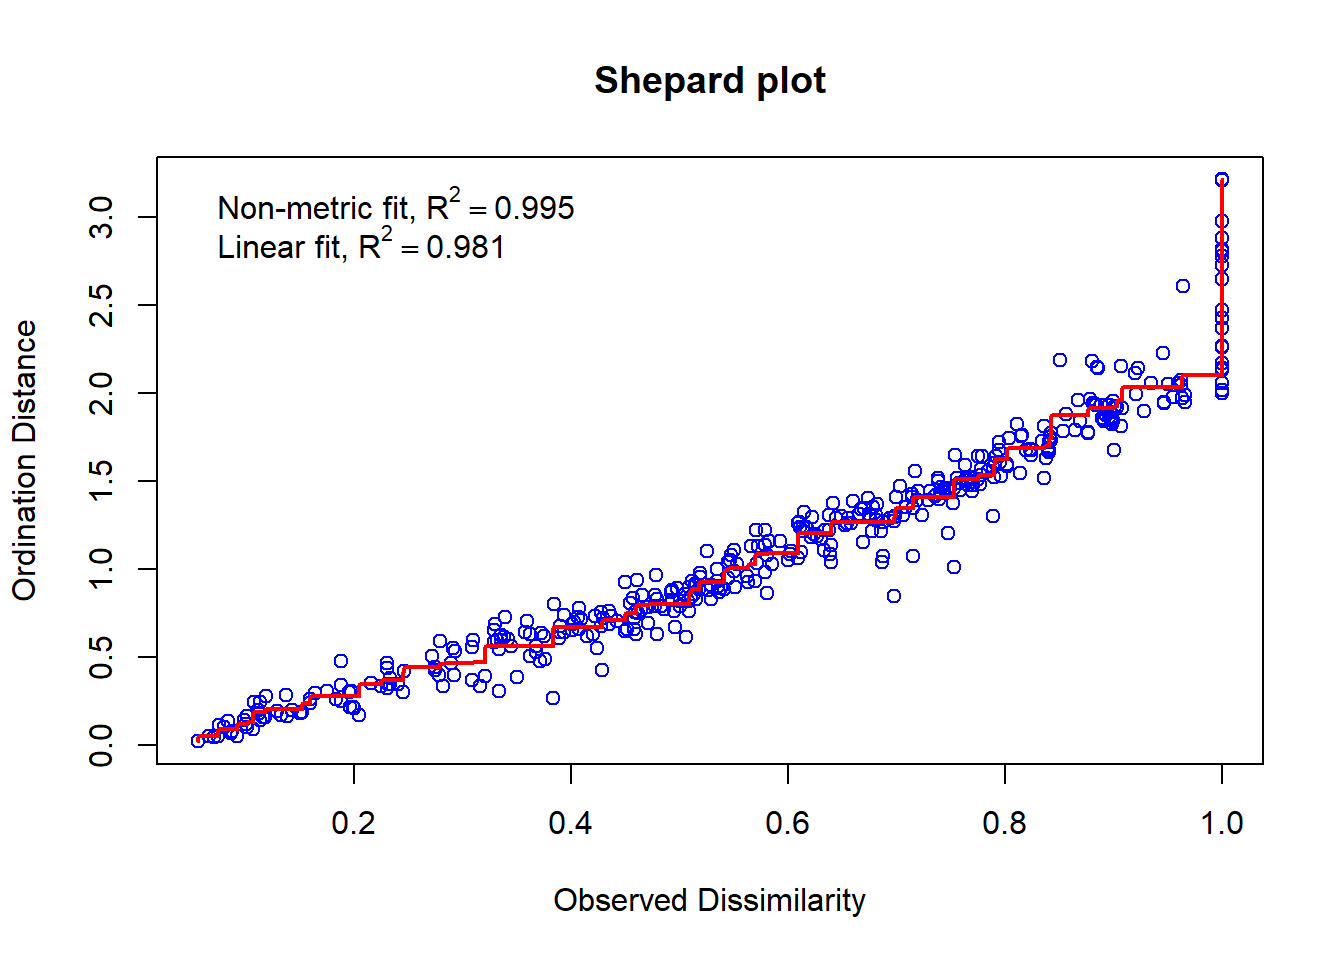
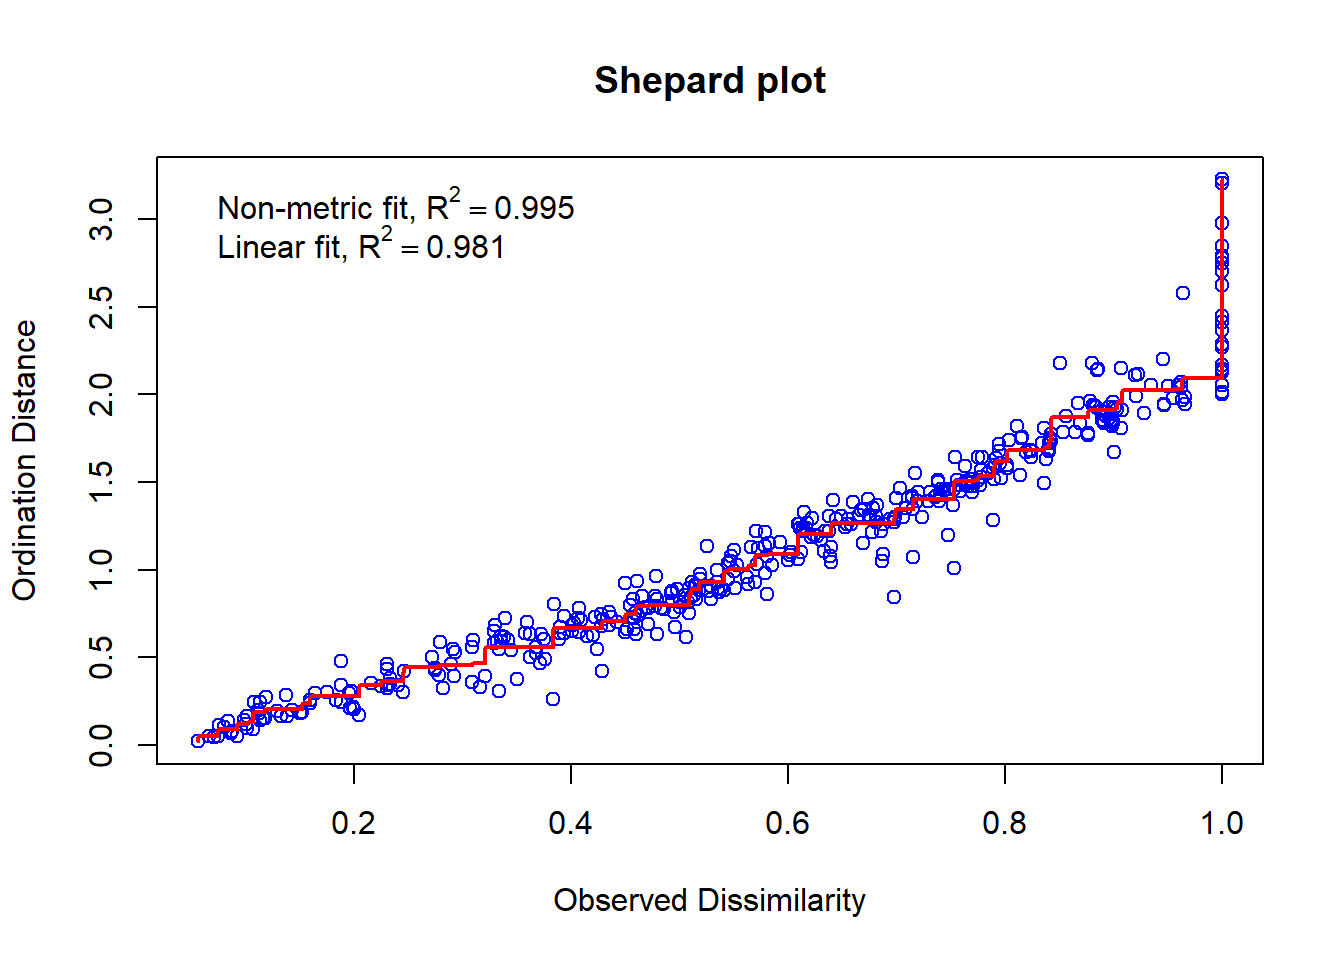
minor

diff --git a/Ordination2023.html b/Ordination2023.html
@@ -503,7 +503,7 @@ predictor variables. For example, say we want to know how a fish species
 of interest (<em>Cottus gobio</em>) is impacted by a handful of
 environmental variables (pH, average stream flow, and dissolved oxygen
 concentration).</p>
-<p><img src="images/Lecture_1.png" Width="75%" /></p>
+<p><img src="Lecture_1.png" Width="75%" /></p>
 <p>We can do this easily with a gamma-distributed GLM.</p>
 <pre class="r"><code># Load libraries ----
 library(codep)
@@ -544,7 +544,7 @@ summary(COGO_mod) #oxygen is significantly positive!</code></pre>
 concentrations are higher. Cool!</p>
 <p>But, what if we were interested in not just one fish, but an entire
 community of fishies?</p>
-<p><img src="images/Lecture_2.png" Width="75%" /></p>
+<p><img src="Lecture_2.png" Width="75%" /></p>
 <p>This is where multivariate analysis shines! Multivariate analysis is
 any analysis that allows us to address the simultaneous observation or
 analysis of more than one response variable. In multivariate analysis,
@@ -581,8 +581,8 @@ to understand how they structure complicated community data.</p>
 be graphed into intuitive interpretations of species-environment
 relationships.</p>
 <p>We can make informative and great looking figures like this:</p>
-<p><img src="images/Lecture_3.png" style="width:50.0%" /><img
-src="images/Lecture_4.png" style="width:50.0%" /></p>
+<p><img src="Lecture_3.png" style="width:50.0%" /><img
+src="Lecture_4.png" style="width:50.0%" /></p>
 <p>In other cases, ordination is used as a step in a series of analyses.
 You can often use ordination to reduce the number of variables to avoid
 multicollinearity, or reduce the dimensionality of a data set to a
@@ -599,11 +599,11 @@ need to have a basic understanding of matrices and matrix algebra</p>
 is the sampling unit (e.g., site, plot), and <em>y</em> is the
 ecological descriptor (e.g., species presence-absence, topographical
 variables, chemical variables).</p>
-<p><img src="images/Lecture_5.png" /></p>
+<p><img src="Lecture_5.png" /></p>
 <p>The same ecological data table can be represented in matrix notation
 like this:</p>
 <div class="float">
-<img src="images/Lecture_6.png"
+<img src="Lecture_6.png"
 alt="In this example, y1,1 represents species 1 in site 1. ym,n represents species n in site m." />
 <div class="figcaption">In this example, <em>y<sub>1,1</sub></em>
 represents species 1 in site 1. <em>y<sub>m,n</sub></em> represents
@@ -612,23 +612,23 @@ species <em>n</em> in site <em>m</em>.</div>
 <div id="association-matrices" class="section level3">
 <h3>Association Matrices</h3>
 <p>Using the data from our matrix <em>Y</em>:</p>
-<p><img src="images/Lecture_7.png" /></p>
+<p><img src="Lecture_7.png" /></p>
 <p>One can examine the relationship between the first two objects,
 <em>x<sub>1</sub></em> and <em>x<sub>2</sub></em>:</p>
-<p><img src="images/Lecture_8.png" /></p>
+<p><img src="Lecture_8.png" /></p>
 <p>We refer to the relationship between <em>x<sub>1</sub></em> and
 <em>x<sub>2</sub></em> as <em>a<sub>1,2</sub></em>.</p>
 <p>We can populate the association matrix <em>A<sub>n,n</sub></em>, with
 the relationships between all objects from <em>Y</em>.</p>
-<p><img src="images/Lecture_9.png" /></p>
+<p><img src="Lecture_9.png" /></p>
 <p>This is the basis of most ordination methods (Q-mode, where the
 associations between objects, or sites/plots, are analyzed).</p>
 <p>We can also analyze the associations between ecological descriptors
 (columns, R-mode).</p>
-<p><img src="images/Lecture_10.png" /></p>
+<p><img src="Lecture_10.png" /></p>
 <p>We can populate the association matrix <em>A<sub>m,m</sub></em> with
 the relationships between all descriptors from <em>Y</em>:</p>
-<p><img src="images/Lecture_11.png" /></p>
+<p><img src="Lecture_11.png" /></p>
 <hr />
 </div>
 </div>
@@ -657,11 +657,11 @@ typically planar and orthogonal. In two dimensions, the Euclidean
 distance between two points p and q can be calculated using the
 Pythagorean theorem:</p>
 <center>
-<img src="images/Lecture_12.png" />
+<img src="Lecture_12.png" />
 </center>
 <p>We can visualize Euclidean Distance below:</p>
 <center>
-<img src="images/Lecture_13.png" />
+<img src="Lecture_13.png" />
 </center>
 <p>Euclidean distance is a commonly used measure in multivariate
 analyses because it provides a straightforward and intuitive way to
@@ -749,7 +749,7 @@ deal with the double-zero problem.</p>
 abundances is the Bray-Curtis coefficient. This coefficient falls under
 the <strong>Semimetric</strong> category of distance coefficients. The
 coefficient can be calculated:</p>
-<p><img src="images/Lecture_14.png" /></p>
+<p><img src="Lecture_14.png" /></p>
 <p>Where:</p>
 <ul>
 <li>W is the sum of the lowest abundances in each species found between
@@ -1035,13 +1035,13 @@ directions in covariance space that capture the maximum amount of
 variance in the data, and the eigenvalues indicate the amount of
 variance captured by each eigenvector.</p>
 <p>Visually, you think of an eigenvector below:</p>
-<p><img src="images/Lecture_15.png" /></p>
+<p><img src="Lecture_15.png" /></p>
 <p>Where the black line running through the data represents an
 eigenvector which captures the most amount of variance of the data. For
 a PCA, this eigenvector represents the <strong>first principal
 component</strong>. The <strong>second principal component</strong>
 would be orthogonal to this eigenvector, as seen below:</p>
-<p><img src="images/Lecture_16.png" /></p>
+<p><img src="Lecture_16.png" /></p>
 <p>Calculating eigenvectors and eigenvalues involves several involved
 linear algebra and matrix multiplication steps, which we won’t go into
 detail here. For this lecture, it’s important to understand what
@@ -1452,34 +1452,40 @@ spe.nmds &lt;- vegan::metaMDS(spe.h,
                            autotransform = F # indicates that transformation has already been applied to the data
                            )</code></pre>
 <pre><code>## Run 0 stress 0.06746136 
-## Run 1 stress 0.1256267 
-## Run 2 stress 0.1067558 
-## Run 3 stress 0.1151198 
-## Run 4 stress 0.06747858 
-## ... Procrustes: rmse 0.002248574  max resid 0.01068354 
-## Run 5 stress 0.07528545 
-## Run 6 stress 0.1041398 
-## Run 7 stress 0.06742632 
+## Run 1 stress 0.07528544 
+## Run 2 stress 0.06743129 
 ## ... New best solution
-## ... Procrustes: rmse 0.005223574  max resid 0.02475393 
-## Run 8 stress 0.108608 
-## Run 9 stress 0.06742876 
-## ... Procrustes: rmse 0.000636614  max resid 0.003014554 
+## ... Procrustes: rmse 0.003967302  max resid 0.01879252 
+## Run 3 stress 0.0674413 
+## ... Procrustes: rmse 0.001785436  max resid 0.008460425 
 ## ... Similar to previous best
-## Run 10 stress 0.07528552 
-## Run 11 stress 0.0957706 
-## Run 12 stress 0.06744668 
-## ... Procrustes: rmse 0.00377196  max resid 0.01787238 
-## Run 13 stress 0.1096431 
-## Run 14 stress 0.07528553 
-## Run 15 stress 0.07528559 
-## Run 16 stress 0.1245882 
-## Run 17 stress 0.1041402 
-## Run 18 stress 0.06747131 
-## ... Procrustes: rmse 0.006623213  max resid 0.03139962 
-## Run 19 stress 0.09577104 
-## Run 20 stress 0.06746767 
-## ... Procrustes: rmse 0.006288775  max resid 0.02981288 
+## Run 4 stress 0.1067558 
+## Run 5 stress 0.06746851 
+## ... Procrustes: rmse 0.00538092  max resid 0.02551963 
+## Run 6 stress 0.1067557 
+## Run 7 stress 0.1151199 
+## Run 8 stress 0.06746194 
+## ... Procrustes: rmse 0.002628302  max resid 0.01236617 
+## Run 9 stress 0.1269119 
+## Run 10 stress 0.1016351 
+## Run 11 stress 0.07528544 
+## Run 12 stress 0.10414 
+## Run 13 stress 0.1016355 
+## Run 14 stress 0.07528562 
+## Run 15 stress 0.06744181 
+## ... Procrustes: rmse 0.001500848  max resid 0.007092999 
+## ... Similar to previous best
+## Run 16 stress 0.06745693 
+## ... Procrustes: rmse 0.00389134  max resid 0.01844674 
+## Run 17 stress 0.07528549 
+## Run 18 stress 0.06742484 
+## ... New best solution
+## ... Procrustes: rmse 0.004731195  max resid 0.02242688 
+## Run 19 stress 0.06742439 
+## ... New best solution
+## ... Procrustes: rmse 0.0001812872  max resid 0.0008583058 
+## ... Similar to previous best
+## Run 20 stress 0.1041398 
 ## *** Best solution repeated 1 times</code></pre>
 <p>When we run an NMDS, objects are first positioned in a random
 starting condition in the requested number of dimensions (default is 2).
@@ -1499,7 +1505,7 @@ the specified number of NMDS dimensions. &lt;0.1 is great, and &lt;0.05
 is excellent, except that is rare.</p>
 <pre class="r"><code># Stress score
 spe.nmds$stress # A stress score &lt;0.1. Great!</code></pre>
-<pre><code>## [1] 0.06742632</code></pre>
+<pre><code>## [1] 0.06742439</code></pre>
 <p>We can do a visual check of goodness-of-fit using a Shepard’s
 plot.</p>
 <pre class="r"><code># Shepard Plot
@@ -1575,7 +1581,7 @@ the response matrix, <strong>Y</strong>, is regressed on the explanatory
 variables in <strong>X</strong>, which produces a matrix of fitted
 values, <strong>Y</strong><sub><strong><em>fit</em></strong></sub>.</li>
 </ol>
-<p><img src="images/Lab_1.png" Width="60%" /></p>
+<p><img src="Lab_1.png" Width="60%" /></p>
 <ol start="2" style="list-style-type: decimal">
 <li>Then, we run a PCA on the matrix of fitted values
 <strong>Y</strong><sub><strong><em>fit</em></strong></sub>. Just like
